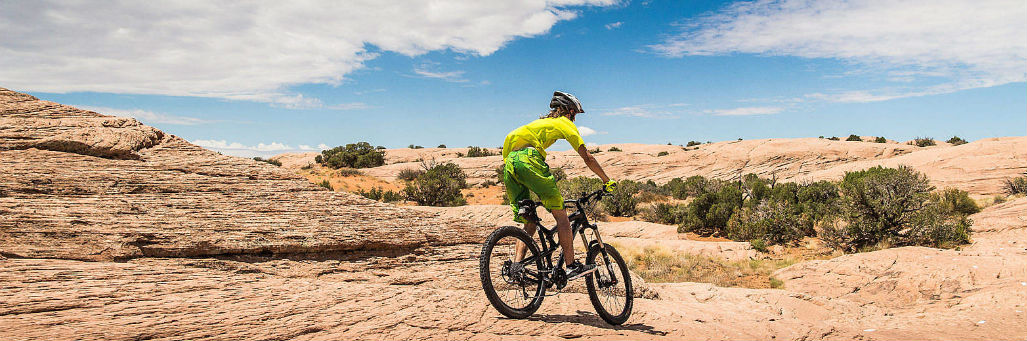
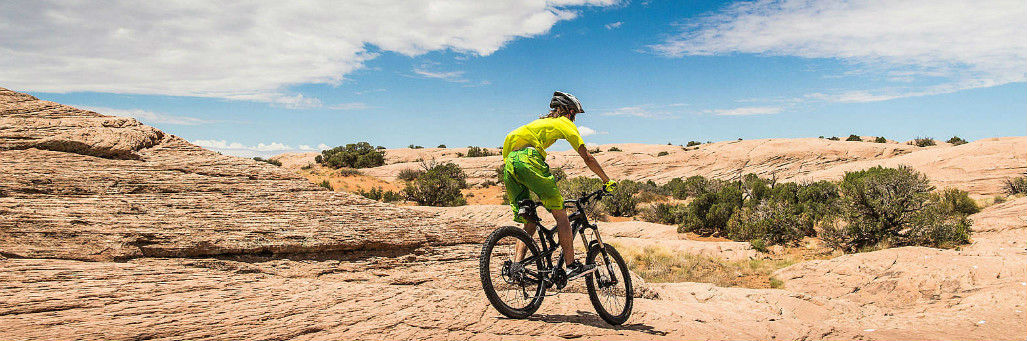
update

diff --git a/assignments/bicyclesmountainspoke/home.html b/assignments/bicyclesmountainspoke/home.html
@@ -38,7 +38,7 @@
 
         <main>
             <figure>
-                <img src="images/mountain-biking-in-utah90.jpg" alt="mountain bicyclist riding on a bicycle" sizes="100vw" srcset="images/mountain-biking-in-utah90-400.jpg 400w, images/mountain-biking-in-utah90-600.jpg 600w, images/mountain-biking-in-utah90-800.jpg 800w, images/mountain-biking-in-utah90.jpg 1028w">
+                <img src="images/mountain-biking-in-utah80.jpg" alt="mountain bicyclist riding on a bicycle" sizes="100vw" srcset="images/mountain-biking-in-utah80-400.jpg 400w, images/mountain-biking-in-utah80-600.jpg 600w, images/mountain-biking-in-utah80-800.jpg 800w, images/mountain-biking-in-utah80.jpg 1028w">
             </figure>
             <h1>The Mountain Spoke bicycles sales, services and adventure tours.</h1>
             <section id="homepagearticles">
@@ -48,7 +48,7 @@
                         <p>Come and visit our store. You will find all kinds of bicycles here for any preference.</p>
                     </section>
                     <section>
-                        <img src="/assignments/bicyclesmountainspoke/images/bicyclesforsale.jpg" alt="biclycles">
+                        <img src="/assignments/bicyclesmountainspoke/images/bicyclesforsale80.jpg" alt="biclycles">
                     </section>
                 </article>
                 <article id="homepageservices">
@@ -57,7 +57,7 @@
                         <p>We can take care of any problem that you can have with your bicycle.</p>
                     </section>
                     <section>
-                        <img src="/assignments/bicyclesmountainspoke/images/bicyclesservice.jpg" alt="bicycle service and repair">
+                        <img src="/assignments/bicyclesmountainspoke/images/bicyclesservice80.jpg" alt="bicycle service and repair">
                     </section>
                 </article>
             </section>
@@ -73,9 +73,9 @@
                     </div>
                 </section>
                 <section id="homepageimages">
-                    <img id="homepageimages1" src="/assignments/bicyclesmountainspoke/images/bike-mountain-mountain-biking-trail-163491.jpeg" alt="bicycle service and repair">
-                    <img id="homepageimages2" src="/assignments/bicyclesmountainspoke/images/cyclists-trail-bike-clouds-163407.jpeg" alt="bicycle service and repair">
-                    <img id="homepageimages3" src="/assignments/bicyclesmountainspoke/images/pexels-photo-90454.jpeg" alt="bicycle service and repair">
+                    <img id="homepageimages1" src="/assignments/bicyclesmountainspoke/images/bike-mountain-mountain-biking-trail-163491-small.jpg" alt="a bicyclist on a mountain">
+                    <img id="homepageimages2" src="/assignments/bicyclesmountainspoke/images/cyclists-trail-bike-clouds-163407-small.jpg" alt="two bicyclists on a road">
+                    <img id="homepageimages3" src="/assignments/bicyclesmountainspoke/images/pexels-photo-90454-small.jpg" alt="a bicyclist making a hard turn">
                 </section>
             </section>
         </main>

diff --git a/assignments/bicyclesmountainspoke/sales.html b/assignments/bicyclesmountainspoke/sales.html
@@ -16,15 +16,19 @@
         <script>
             $(function(){
                 // All jQuery code goes here
-                $('.sales > div').hover(function(){
+                $('.sales > div').click(function(){
                     // This code executes when the mouse pointer is over the list item
 
-                    $(this).addClass('openSesame');
+                 //   $(this).addClass('openSesame');
 
-                }, function(){
+               // }, function(){
                     // This code executes when the mouse pointer leaves the list item
 
-                    $(this).removeClass('openSesame');
+                 //   $(this).removeClass('openSesame');
+
+                   // $(this).toggleClass('openSesame');
+
+                    $(this).addClass('openSesame').siblings().removeClass('openSesame');
 
                 })
             })

diff --git a/assignments/bicyclesmountainspoke/css/large.css b/assignments/bicyclesmountainspoke/css/large.css
@@ -50,6 +50,11 @@
     #homepageimages {
         display: flex;
         flex-flow: row nowrap;
+        margin-top: 20px;
+    }
+
+    #homepageimages img {
+        padding: 0 20px;
     }
 
     #homepagesales section {

diff --git a/assignments/bicyclesmountainspoke/css/medium.css b/assignments/bicyclesmountainspoke/css/medium.css
@@ -126,6 +126,7 @@
         background-color: red;
         color: black;
         font-size: 25px;
+        cursor: ;
     }
 
     section p#salespage1 {
